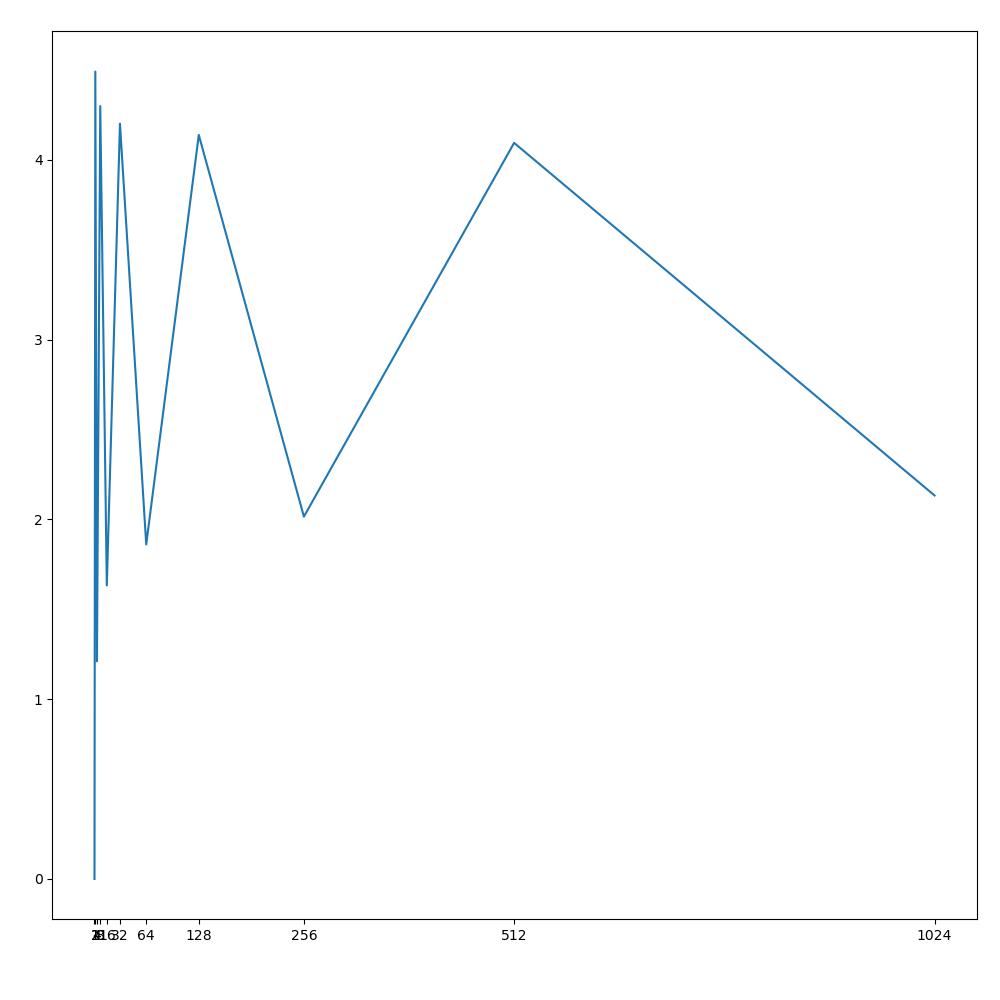
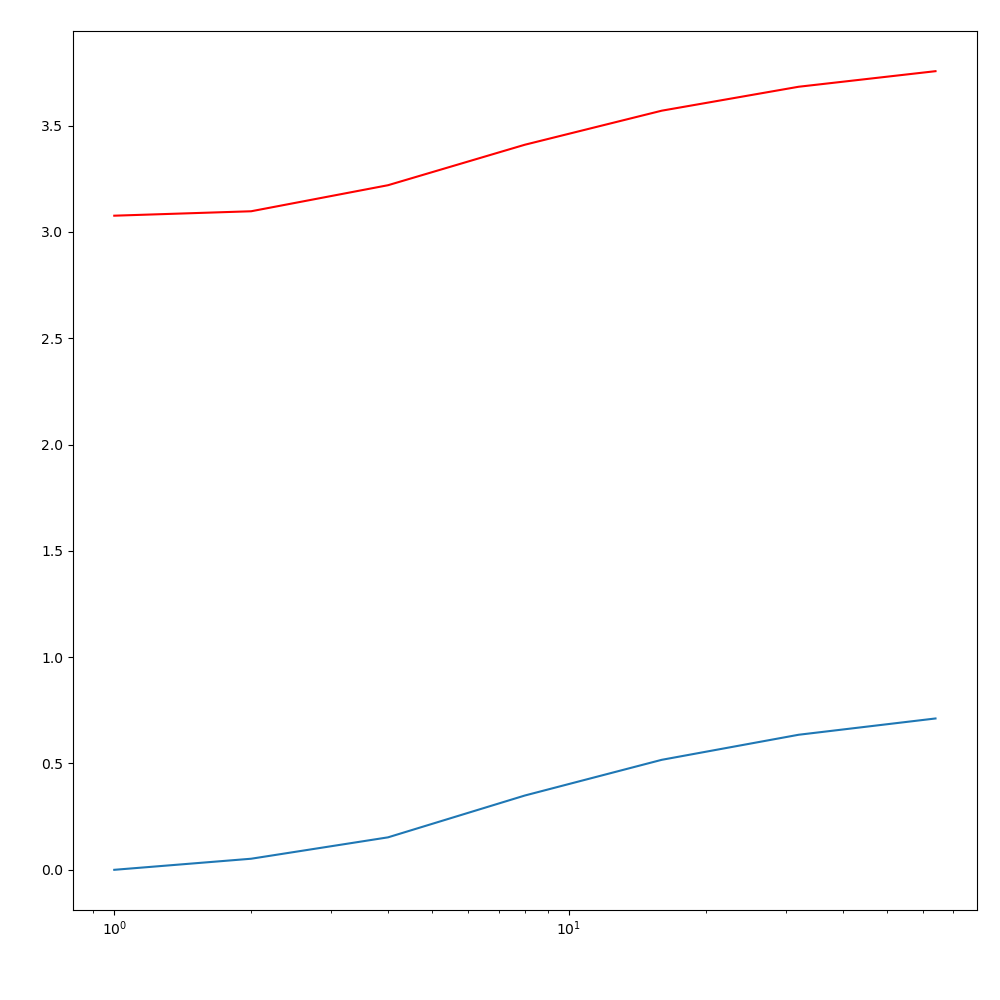
Some Fixes

diff --git a/deltat.py b/deltat.py
@@ -32,11 +32,11 @@ def argparser(parser: argparse.ArgumentParser):
                         default = 0,
                         help='Initial State in the real line.(Amnt of current events)')
 
-def get_stationary():
-
+def get_stationary(state_tape,holdTimes_tape,samp_rate ):
+    #  trans_matrx_samp = state_transitions(np.full_like(state_tape,samprate,dtype=np.float16), state_tape)
+    #
     #  initial = np.zeros((1,trans_matx_samp.shape[1]))
     #  initial[0,0] = 1
-
     #  res = np.copy(trans_matx_samp)
     #  frob_hor_ax = []
     #  frob_norms = []
@@ -50,8 +50,8 @@ def get_stationary():
     #          axs[0].plot(fin.flatten(),label="Power Method n={}".format(i))
     #
     #  axs[0].hist(state_tape,bins=trans_matx_samp.shape[1],density=True,label="Sampled Histogram")
-
-    #Plot the true distributoin
+    #
+    #  # Plot the true distributoin
     #  maxx = trans_matx_samp.shape[1]+1
     #  x = np.linspace(1,maxx,100)
     #  # Theres a different expression for n = 0. Will add later
@@ -64,8 +64,17 @@ def get_stationary():
     #  axs[0].plot(x,y,label="Closed Form Solution")
     pass
 
-def frob_comparison(state_tape,samp_rate=1,power_val=8):
+def tri_digmatalgo(N,a,b,c,d,x):
+    pass
+
+
+def frob_comparison(state_tape,holdTimes_tape,samp_rate=1,power_val=64):
+
     fig,axs = plt.subplots(1,1)
+
+    # 
+    event_driven = state_transitions(holdTimes_tape, state_tape)
+    event_diff_norms = []
 
     # Sweet jesus have mercy on the memory
     trans_matx_samp = []
@@ -73,16 +82,24 @@ def frob_comparison(state_tape,samp_rate=1,power_val=8):
     frob_norms = []
     for i in range(0,int(np.log2(power_val)+1)):
         pow2  = np.power(2,i)
-        sampled_tape = simple_sample(samp_rate/pow2, state_tape, holdTimes_tape)
-        trans_matx_samp.append(state_transitions(np.full_like(state_tape,args.samprate/pow2,dtype=np.float16), state_tape))
-        nth_mat = np.linalg.matrix_power(trans_matx_samp[-1],i+1)
-        frob_norms.append(np.linalg.norm(trans_matx_samp[0]-nth_mat,ord='fro'))
 
+        sampled_tape = simple_sample(samp_rate*pow2, state_tape, holdTimes_tape)
+
+        trans_matx_samp.append(state_transitions(np.full_like(sampled_tape,1/(samp_rate*pow2),dtype=np.float16), sampled_tape))
+
+        nth_mat = np.linalg.matrix_power(trans_matx_samp[-1],i+1)
+
+        frob_norms.append(np.linalg.norm(trans_matx_samp[0]-nth_mat,ord='fro'))
+        event_diff_norms.append(np.linalg.norm(event_driven-nth_mat,ord='fro'))
 
     # Frobeneius Norm
     xticks = [2**i for i in range(int(np.log2(power_val)+1))]
-    axs.plot(xticks,frob_norms,label="Norms")
+    axs.plot(xticks,frob_norms,label="Norms of diff from rate 1")
+    axs.plot(xticks,event_diff_norms,label="Norms of diff from event driven",c='r')
     axs.set_xticks(xticks)
+    
+    axs.set_xscale('log')
+
 
     fig.tight_layout()
     fig.set_size_inches(10,10)
@@ -93,10 +110,15 @@ def frob_comparison(state_tape,samp_rate=1,power_val=8):
     plt.legend()
     plt.show()
 
-def show_trans_matrix(holdTimes_tape, state_tape):
+def show_trans_matrix(holdTimes_tape, state_tape,samp_rate):
 
     fig, ax = plt.subplots(1,3)
-    #- Analyze the tapes
+    
+    # Sample the Tapes
+    sampled_tape_ori = simple_sample(samp_rate, state_tape, holdTimes_tape)
+    sampled_tape_half = simple_sample(samp_rate/2, state_tape, holdTimes_tape)
+
+    
     # Event Driven Empirical Probabilities
     trans_matx_event = state_transitions(holdTimes_tape, state_tape)
     im = ax[0].imshow(trans_matx_event)
@@ -146,7 +168,13 @@ if __name__ == '__main__':
 
     # Sample it
     # Calculate Stationary Distribution
-    frob_comparison(state_tape,power_val=1024)
+    
+    #  frob_comparison(state_tape,holdTimes_tape,power_val=1024)
+    
+    #  show_trans_matrix(holdTimes_tape, state_tape,args.samprate)
+    frob_comparison(state_tape, holdTimes_tape)
+    #  get_stationary()
+   
 
 
 

diff --git a/sp_sims/statistics/statistics.py b/sp_sims/statistics/statistics.py
@@ -19,7 +19,7 @@ class AbsStatisticGenerator(ABC):
     def show_state_dist(self) :
         pass
 
-    # Im afraind I will end up abusing the amount of tapes. Lets see
+# Im afraind I will end up abusing the amount of tapes. Lets see
 def state_transitions(times, states):
     # Unique_Elements might seem redundant but maybe we wont always have a state space that starts at 0
     unique_elements,inverse, counts, = np.unique(
@@ -64,6 +64,7 @@ def __init__(self, tapes, dt):
 def sampd_stationary_state(sampling_rate,state_tapes,holding_t_tapes):
     # We just have to get a certain percentage of the states
     # Create array of unique elements
+    sampling_time = 1/sampling_rate
     if len(state_tapes) != len(holding_t_tapes):
         print("Sizes of tapes are not equivalent. Please make sure they \
                 correspond to each other.")
@@ -85,9 +86,9 @@ def sampd_stationary_state(sampling_rate,state_tapes,holding_t_tapes):
     counter = np.zeros_like(unique) # Will keep counters for state
 
     # Get Time at which first sample on each interval happens
-    first_sample_per_interval = starting_times+(sampling_rate-(starting_times%sampling_rate))
+    first_sample_per_interval = starting_times+(starting_times%sampling_time)
     indices  = first_sample_per_interval<transition_times
-    sampling_amounts_per_state = (transition_times-first_sample_per_interval)/sampling_rate
+    sampling_amounts_per_state = (transition_times-first_sample_per_interval)/sampling_time
     sampling_amounts_per_state[sampling_amounts_per_state<0] = 0
     sampling_amounts_per_state[indices] += 1
     
@@ -101,6 +102,7 @@ def sampd_stationary_state(sampling_rate,state_tapes,holding_t_tapes):
 def simple_sample(sampling_rate,state_tapes,holding_t_tapes):
     # We just have to get a certain percentage of the states
     # Create array of unique elements
+    sampling_time = 1/sampling_rate
     if len(state_tapes) != len(holding_t_tapes):
         print("Sizes of tapes are not equivalent. Please make sure they \
                 correspond to each other.")
@@ -115,7 +117,7 @@ def simple_sample(sampling_rate,state_tapes,holding_t_tapes):
     # Get our sample tap
     states = []
     state_tapo = np.asarray(state_tapes)
-    for i,time in enumerate(np.arange(0,ending_times[-1],sampling_rate)):
+    for i,time in enumerate(np.arange(0,ending_times[-1],sampling_time)):
         indices  = (time >= starting_times) & (time < ending_times)
         state_fallen_into = state_tapo[indices]
         assert len(state_fallen_into) == 1

diff --git a/main.py b/main.py
@@ -1,5 +1,6 @@
 # Should be Run by default so it will be a script from the get go
 import sys
+import time
 import matplotlib.pyplot as plt
 from sp_sims.simulators.stochasticprocesses import *
 from sp_sims.statistics.statistics import *
@@ -108,6 +109,6 @@ if __name__ == '__main__':
     sampling_rate = float (sys.argv[2])
     initial_state = int (sys.argv[3])
 
-    compare_stationary_event(length,initial_state=initial_state)
-    #  compare_stationary_sample(length,sampling_rate,0)
+    #  compare_stationary_event(length,initial_state=initial_state)
+    compare_stationary_sample(length,sampling_rate,0)
 

diff --git a/moran51.py b/moran51.py
@@ -1,0 +1,4 @@
+import sys
+import matplotlib.pyplot as plt
+from sp_sims.simulators.stochasticprocesses import *
+from sp_sims.statistics.statistics import *
